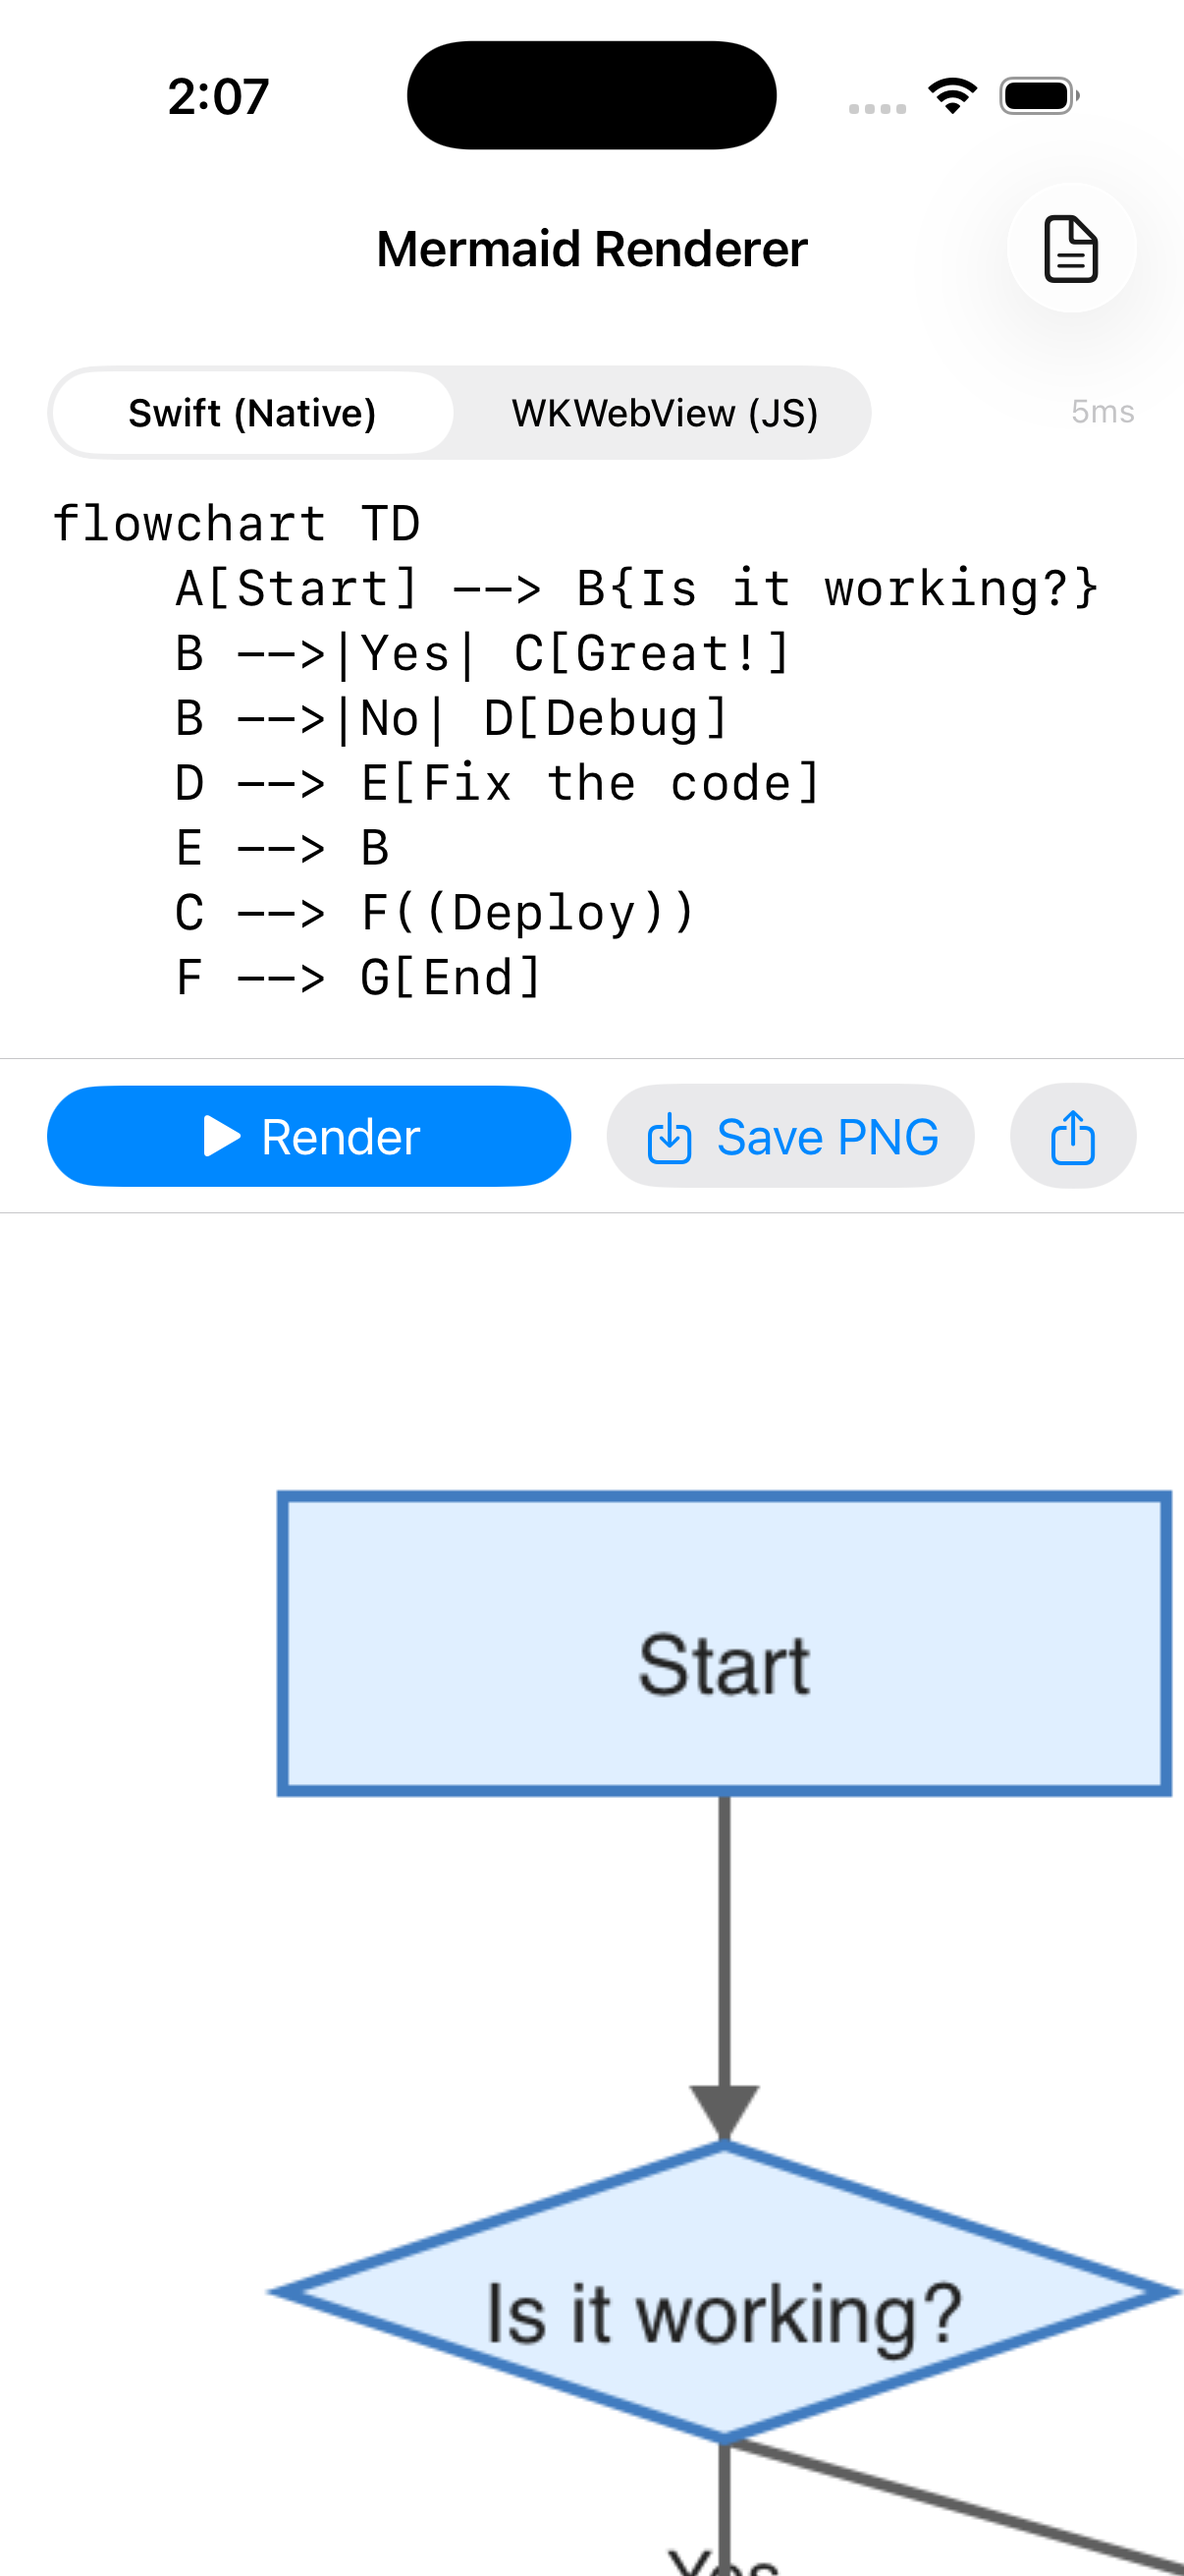
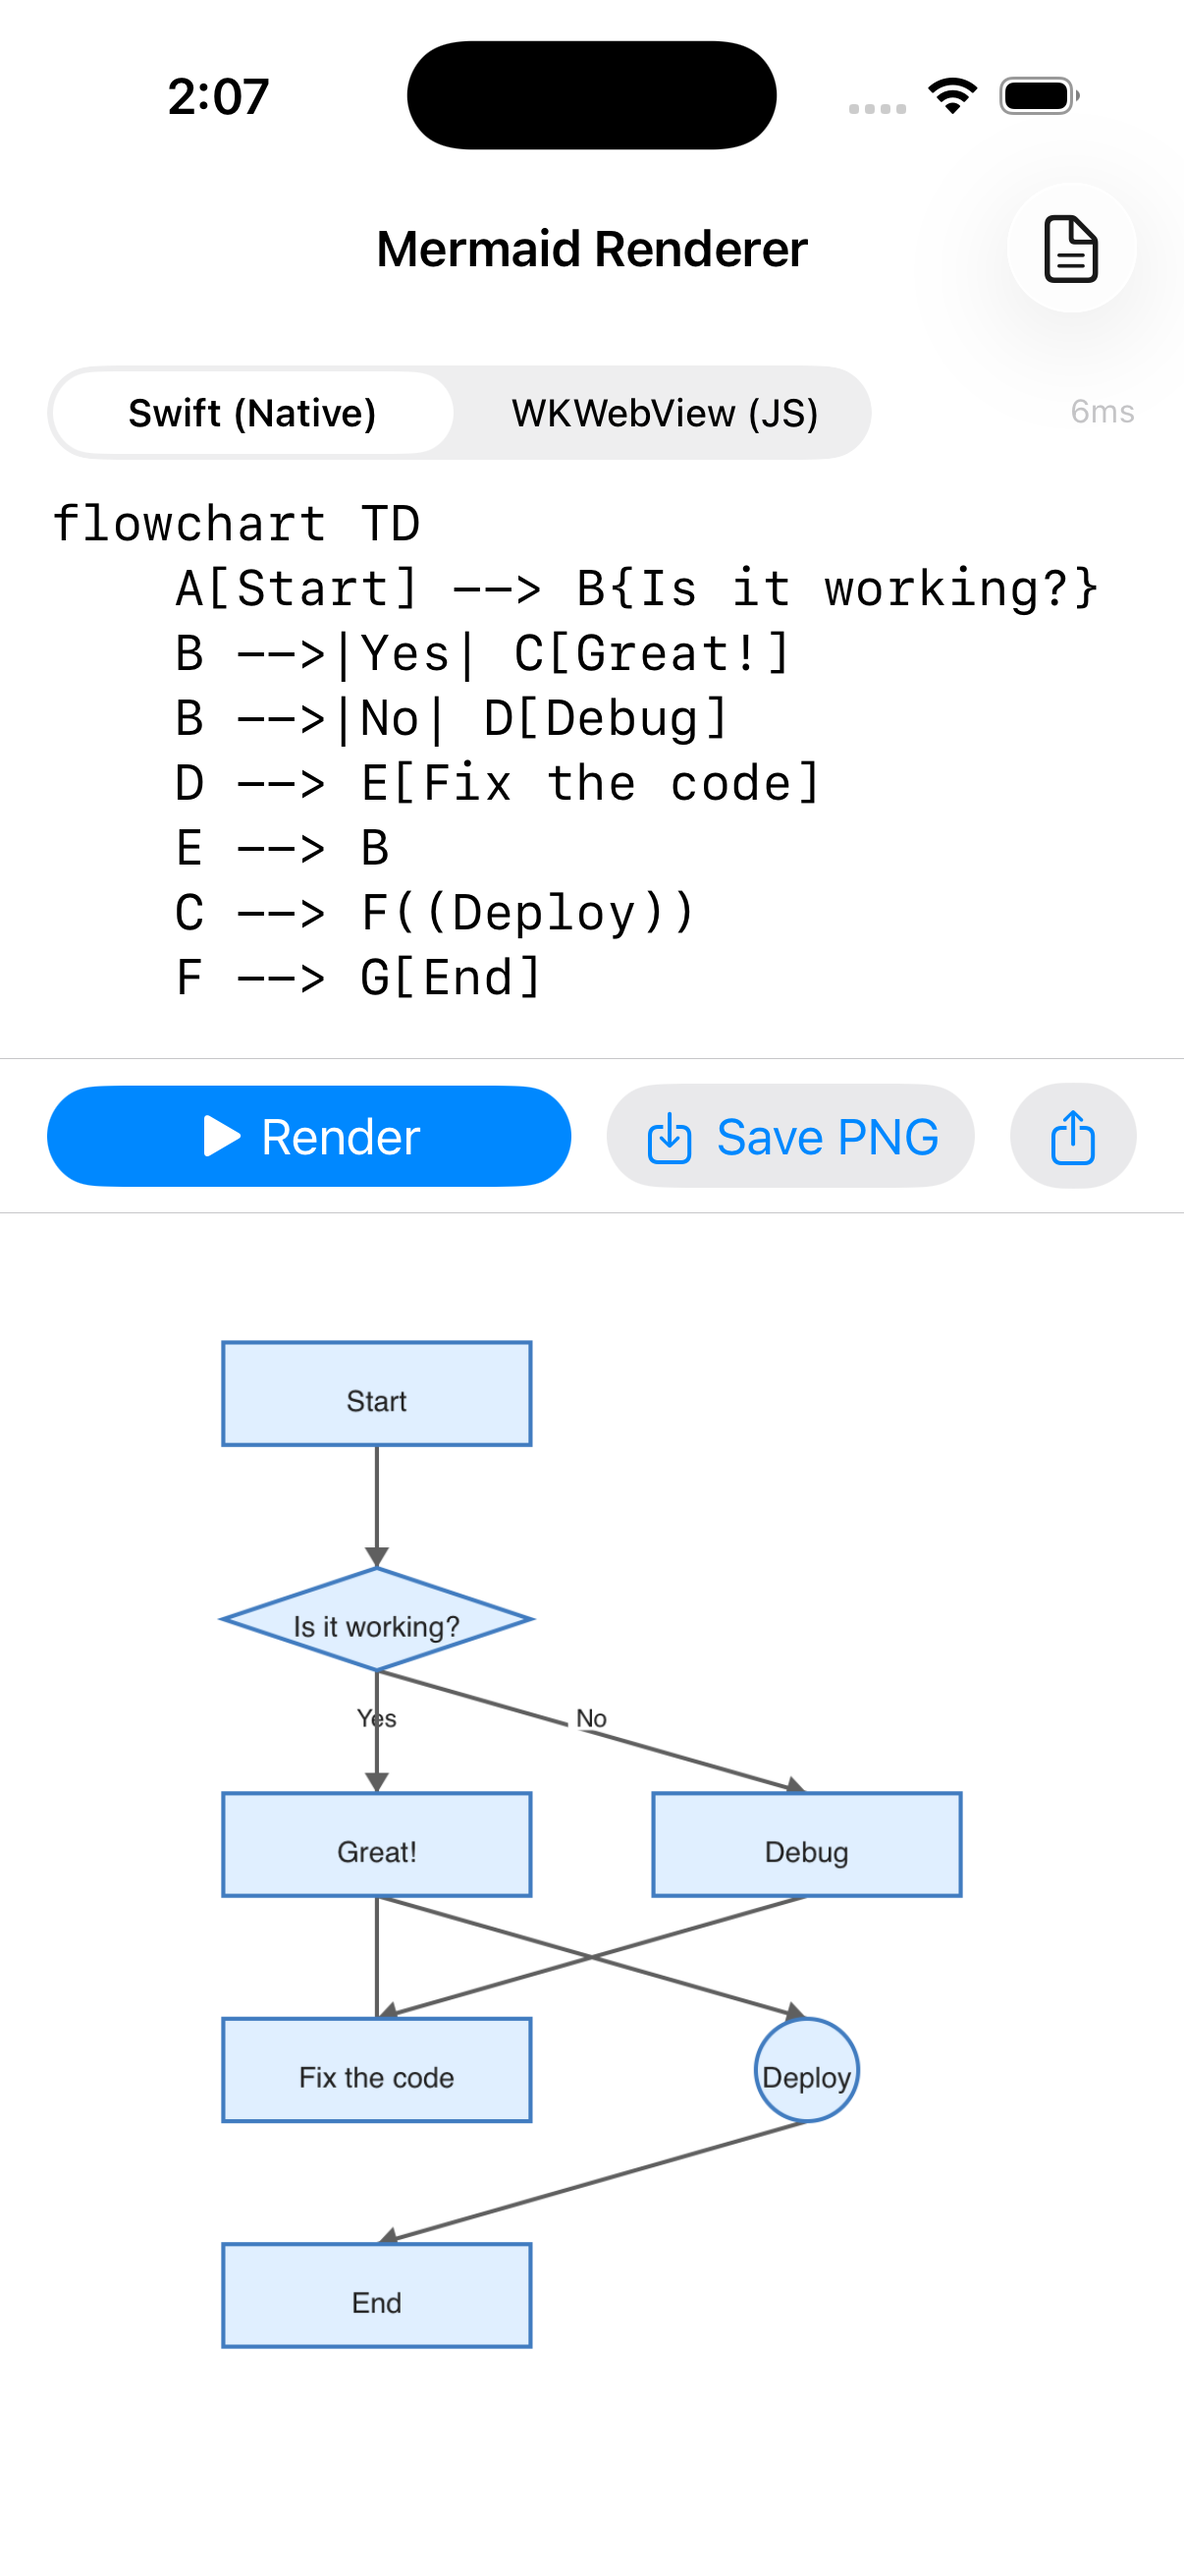
Fix screenshot: use aspect-fit within GeometryReader for proper sizing
- Replace ScrollView with GeometryReader so the rendered diagram fits
  within the available preview area instead of being zoomed in
- Auto-render on launch shows full flowchart diagram

Changed region(s): [[0.1841, 0.4943, 1.0, 1.0], [0.9204, 0.9886, 1.0, 1.0]]

diff --git a/Sources/ContentView.swift b/Sources/ContentView.swift
@@ -150,13 +150,13 @@ struct ContentView: View {
                 .frame(maxWidth: .infinity, maxHeight: .infinity)
                 .padding()
             } else if let renderedImage {
-                ScrollView([.horizontal, .vertical]) {
+                GeometryReader { geo in
                     Image(uiImage: renderedImage)
                         .resizable()
                         .aspectRatio(contentMode: .fit)
-                        .padding()
+                        .frame(width: geo.size.width, height: geo.size.height)
                 }
-                .frame(maxWidth: .infinity, maxHeight: .infinity)
+                .padding()
             } else {
                 VStack(spacing: 8) {
                     Image(systemName: "photo.artframe")
